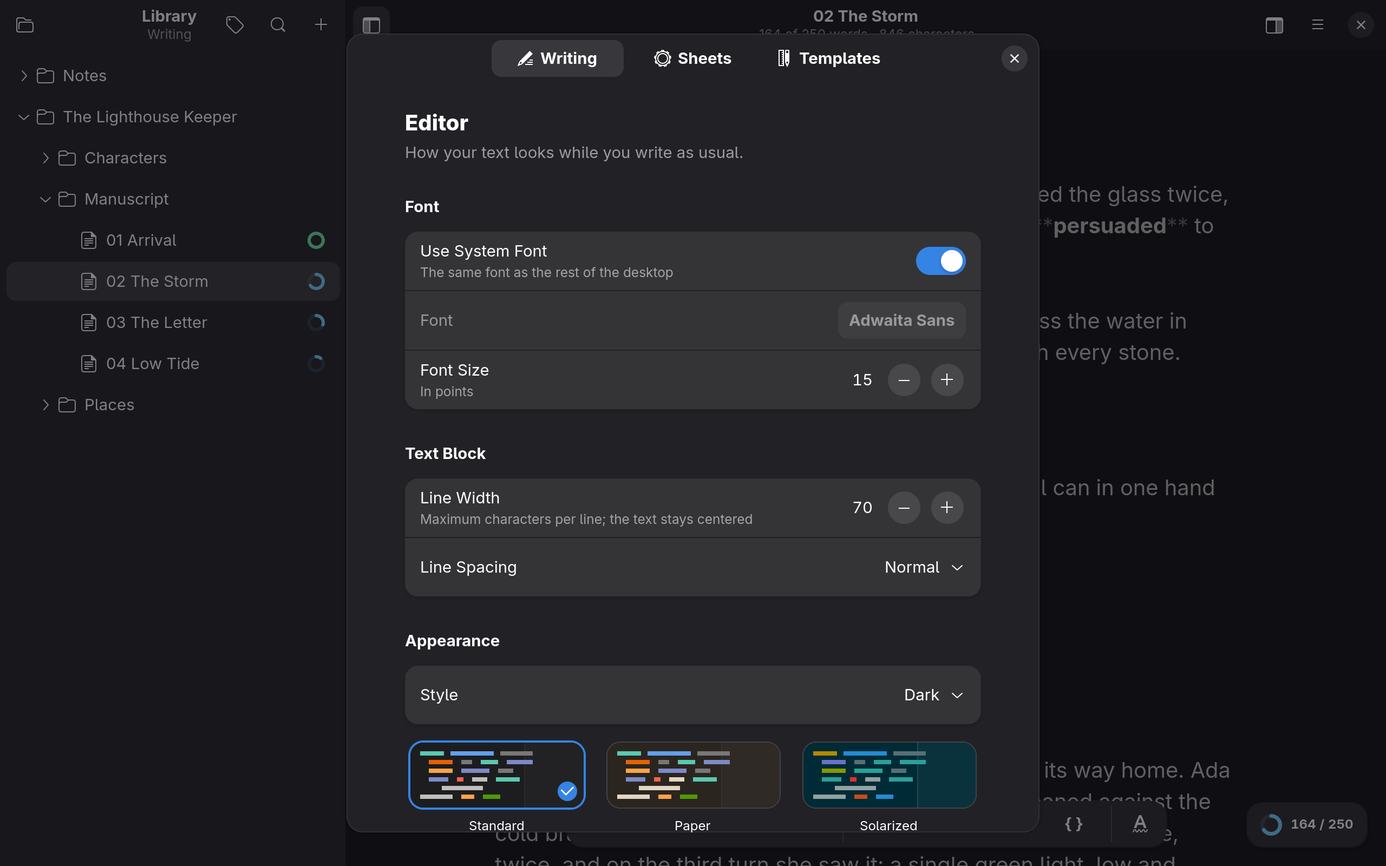
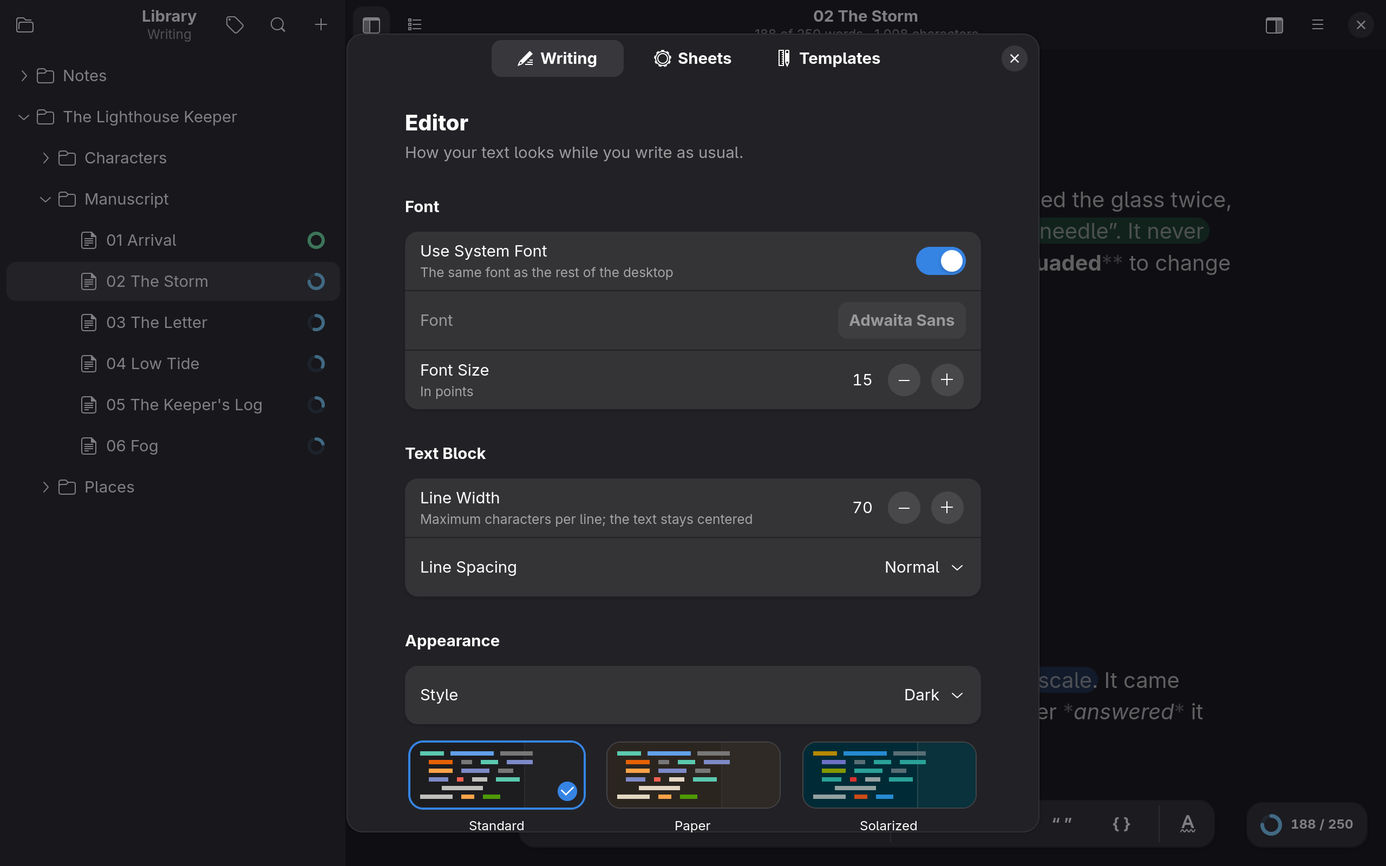
Typecase 1.2.0: new screenshots, texts and download links

diff --git a/src/typecase.html b/src/typecase.html
@@ -12,20 +12,27 @@ description: Typecase is a calm, native Markdown writing app for Linux. Plain fi
   <a class="button" href="#install">Get Typecase</a>
   <a class="button secondary" href="https://github.com/kleinod-studio/Typecase">Source code</a>
 </div>
-<p class="muted">Version 1.1.2 · <a href="https://github.com/kleinod-studio/Typecase/releases/tag/v1.1.2">Release notes</a></p>
+<p class="muted">Version 1.2.0 · <a href="https://github.com/kleinod-studio/Typecase/releases/tag/v1.2.0">Release notes</a></p>
 
-<img class="shot shot-light" src="/assets/typecase/screenshot-light.png" alt="Typecase with the library on the left, a sheet in the editor and the formatting bar" width="1600" height="1000">
-<img class="shot shot-dark" src="/assets/typecase/screenshot-dark.png" alt="Typecase in dark style" width="1600" height="1000">
+<img class="shot shot-light" src="/assets/typecase/screenshot-light.png" alt="Typecase with the library on the left and a sheet in the editor: a picture of a lighthouse in the text, with a yellow pill for the image, a green pill for a footnote and a blue pill for a link" width="1600" height="1000">
+<img class="shot shot-dark" src="/assets/typecase/screenshot-dark.png" alt="The same sheet with its image and pills in dark style" width="1600" height="1000">
 
 <h2>Writing, without distractions</h2>
 <div class="cards">
   <div class="card"><h3>A library of plain files</h3><p>Any folder becomes your library; subfolders are groups. No database, no proprietary format. Sync it with Nextcloud or Syncthing if you like.</p></div>
   <div class="card"><h3>Markdown, styled as you type</h3><p>Headings, emphasis, lists and code look the way they will. A floating formatting bar helps if you'd rather not learn the syntax.</p></div>
+  <div class="card"><h3>Find your way</h3><p>The outline lists the headings of a sheet, or of a whole group with its subgroups. Choose one to jump there.</p></div>
   <div class="card"><h3>Focus mode</h3><p>Full screen with only your text. Typewriter scrolling keeps the current line centered, and the rest of the text fades back.</p></div>
   <div class="card"><h3>Goals and keywords</h3><p>Set a word goal per sheet and watch the progress rings fill. Tag sheets with keywords and filter your library by them.</p></div>
   <div class="card"><h3>Your text is safe</h3><p>Every change is saved automatically and atomically. If another program changes a file, Typecase never overwrites what you typed.</p></div>
   <div class="card"><h3>Private</h3><p>No account, no telemetry, no network access. The Flatpak doesn't even have network permission.</p></div>
 </div>
+
+<h2>Images, links and footnotes</h2>
+<p>Drop an image into your text, paste a screenshot, or use the button in the formatting bar. The image appears right in the editor, and the file stays with its sheet as an attachment. A double-click sets its size, alignment, caption and alternative text, and every export follows.</p>
+<p>Markdown for images, links and footnotes can get long, so Typecase folds it into a small pill: yellow for images, blue for links, green for footnotes. Move the caret there, and the Markdown is back. Links open with Ctrl+click, and footnotes are written right where they belong. It all stays plain text.</p>
+<img class="shot shot-light" src="/assets/typecase/screenshot-image-light.png" alt="A dialog over the text with the settings of an image: size, alignment, caption and alternative text" width="1600" height="1000" loading="lazy">
+<img class="shot shot-dark" src="/assets/typecase/screenshot-image-dark.png" alt="The image dialog in dark style" width="1600" height="1000" loading="lazy">
 
 <h2>Plot with cards</h2>
 <p>Switch a group from <em>Text</em> to <em>Cards</em>, and every sheet becomes a card with its status, keywords, word count and notes. Jot down ideas right on the cards, and drag them, or press Alt and an arrow key, to try out a new order for your chapters. The sheets follow, and the notes stay in each file's front matter.</p>
@@ -33,11 +40,18 @@ description: Typecase is a calm, native Markdown writing app for Linux. Plain fi
 <img class="shot shot-dark" src="/assets/typecase/screenshot-cards-dark.png" alt="The card view in dark style" width="1600" height="1000" loading="lazy">
 
 <h2>Export with templates</h2>
-<p>Typecase exports to PDF, Word (DOCX) and HTML through Pandoc. How the result looks is decided by a template: a single <code>.typecase-template</code> file you import under <em>Preferences → Templates</em>. One template covers all three formats.</p>
+<p>Typecase exports to PDF, Word (DOCX) and HTML through Pandoc, a single sheet or a whole group. Add a table of contents and a cover page if you like. Footnotes land at the bottom of their page, pages get numbers, and the subgroups of a group become parts, with their own heading or title page.</p>
+<p>How the result looks is decided by a template, and one template covers all three formats.</p>
+<img class="shot shot-light" src="/assets/typecase/screenshot-assistant-light.png" alt="The template assistant with a name, a starting point, and settings for paper, margins, page numbers and fonts" width="1600" height="1000" loading="lazy">
+<img class="shot shot-dark" src="/assets/typecase/screenshot-assistant-dark.png" alt="The template assistant in dark style" width="1600" height="1000" loading="lazy">
 <div class="cards">
   <div class="card">
+    <h3>Use the assistant</h3>
+    <p>Under <em>Preferences → Templates → New…</em>, choose a starting point such as a manuscript, a thesis or a novel, then adjust paper, margins, fonts and spacing. No files, no code, and you can change it later.</p>
+  </div>
+  <div class="card">
     <h3>Build your own templates</h3>
-    <p>The guide explains the format: description, HTML template, CSS and Word styles.</p>
+    <p>For special layouts, a template is a single <code>.typecase-template</code> file you import in the preferences. The guide explains the format: description, HTML template, CSS and Word styles.</p>
     <p><a href="/typecase/templates/">Read the template guide</a></p>
   </div>
   <div class="card">
@@ -71,24 +85,24 @@ flatpak remote-add --user --if-not-exists flathub https://dl.flathub.org/repo/fl
 <p>The first command installs Flatpak, the second adds Flathub, where the GNOME runtime that Typecase needs comes from. Log out and back in afterwards, so that Flatpak apps appear in your app launcher. For other distributions, see <a href="https://flatpak.org/setup/">flatpak.org/setup</a>.</p>
 <h3>Install Typecase</h3>
 <div class="buttons">
-  <a class="button" href="https://github.com/kleinod-studio/Typecase/releases/download/v1.1.2/Typecase-1.1.2-x86_64.flatpak">Download for x86_64</a>
-  <a class="button secondary" href="https://github.com/kleinod-studio/Typecase/releases/download/v1.1.2/Typecase-1.1.2-aarch64.flatpak">Download for ARM (aarch64)</a>
+  <a class="button" href="https://github.com/kleinod-studio/Typecase/releases/download/v1.2.0/Typecase-1.2.0-x86_64.flatpak">Download for x86_64</a>
+  <a class="button secondary" href="https://github.com/kleinod-studio/Typecase/releases/download/v1.2.0/Typecase-1.2.0-aarch64.flatpak">Download for ARM (aarch64)</a>
 </div>
 <p>Not sure which one you need? Open a terminal and type <code>uname -m</code>. It shows <code>x86_64</code> on most PCs and laptops with an Intel or AMD processor, and <code>aarch64</code> on ARM computers, for example a Raspberry Pi, a laptop with a Snapdragon processor, or Linux in a virtual machine on a Mac with Apple Silicon.</p>
 <p>Then open a terminal in your downloads folder (usually <code>cd ~/Downloads</code>) and install the file you downloaded. For x86_64:</p>
-<pre><code>flatpak install --user Typecase-1.1.2-x86_64.flatpak</code></pre>
+<pre><code>flatpak install --user Typecase-1.2.0-x86_64.flatpak</code></pre>
 <p>For ARM (aarch64):</p>
-<pre><code>flatpak install --user Typecase-1.1.2-aarch64.flatpak</code></pre>
+<pre><code>flatpak install --user Typecase-1.2.0-aarch64.flatpak</code></pre>
 <p>The GNOME runtime is fetched from Flathub automatically, and Typecase appears in your app launcher. Bundles don't update by themselves; install the next release the same way. Your library and settings stay.</p>
 <h3>Spell checking dictionaries</h3>
 <p>The dictionaries come from the GNOME runtime's language packs, which Flatpak installs only for the languages it is set up for. If Typecase says that a dictionary is missing, add the language (here German and English) and update:</p>
 <pre><code>flatpak config --user --set languages "de;en"
 flatpak update --user</code></pre>
 <h3>Build from source</h3>
-<pre><code>git clone --branch v1.1.2 https://github.com/kleinod-studio/Typecase.git
+<pre><code>git clone --branch v1.2.0 https://github.com/kleinod-studio/Typecase.git
 cd Typecase
 flatpak-builder --user --install --force-clean build-dir studio.kleinod.Typecase.yml</code></pre>
 <p>You need <code>flatpak-builder</code> and the GNOME runtime (<code>flatpak install flathub org.gnome.Platform//51 org.gnome.Sdk//51</code>).</p>
 
 <h2>Get involved</h2>
-<p>Typecase is free software under the GPL-3.0-or-later. Found a bug or have an idea? <a href="https://github.com/kleinod-studio/Typecase/issues">Open an issue</a>. See the <a href="https://github.com/kleinod-studio/Typecase/blob/main/ROADMAP.md">roadmap</a> for what's done and what comes next.</p>
+<p>Typecase is free software under the GPL-3.0-or-later. Found a bug or have an idea? <a href="https://github.com/kleinod-studio/Typecase/issues">Open an issue</a>. Would you like to see Typecase in your language? <a href="https://github.com/kleinod-studio/Typecase/blob/main/CONTRIBUTING.md">Help translate it</a>, no programming needed. See the <a href="https://github.com/kleinod-studio/Typecase/blob/main/ROADMAP.md">roadmap</a> for what's done and what comes next.</p>

diff --git a/typecase/index.html b/typecase/index.html
@@ -37,20 +37,27 @@
   <a class="button" href="#install">Get Typecase</a>
   <a class="button secondary" href="https://github.com/kleinod-studio/Typecase">Source code</a>
 </div>
-<p class="muted">Version 1.1.2 · <a href="https://github.com/kleinod-studio/Typecase/releases/tag/v1.1.2">Release notes</a></p>
+<p class="muted">Version 1.2.0 · <a href="https://github.com/kleinod-studio/Typecase/releases/tag/v1.2.0">Release notes</a></p>
 
-<img class="shot shot-light" src="/assets/typecase/screenshot-light.png" alt="Typecase with the library on the left, a sheet in the editor and the formatting bar" width="1600" height="1000">
-<img class="shot shot-dark" src="/assets/typecase/screenshot-dark.png" alt="Typecase in dark style" width="1600" height="1000">
+<img class="shot shot-light" src="/assets/typecase/screenshot-light.png" alt="Typecase with the library on the left and a sheet in the editor: a picture of a lighthouse in the text, with a yellow pill for the image, a green pill for a footnote and a blue pill for a link" width="1600" height="1000">
+<img class="shot shot-dark" src="/assets/typecase/screenshot-dark.png" alt="The same sheet with its image and pills in dark style" width="1600" height="1000">
 
 <h2>Writing, without distractions</h2>
 <div class="cards">
   <div class="card"><h3>A library of plain files</h3><p>Any folder becomes your library; subfolders are groups. No database, no proprietary format. Sync it with Nextcloud or Syncthing if you like.</p></div>
   <div class="card"><h3>Markdown, styled as you type</h3><p>Headings, emphasis, lists and code look the way they will. A floating formatting bar helps if you'd rather not learn the syntax.</p></div>
+  <div class="card"><h3>Find your way</h3><p>The outline lists the headings of a sheet, or of a whole group with its subgroups. Choose one to jump there.</p></div>
   <div class="card"><h3>Focus mode</h3><p>Full screen with only your text. Typewriter scrolling keeps the current line centered, and the rest of the text fades back.</p></div>
   <div class="card"><h3>Goals and keywords</h3><p>Set a word goal per sheet and watch the progress rings fill. Tag sheets with keywords and filter your library by them.</p></div>
   <div class="card"><h3>Your text is safe</h3><p>Every change is saved automatically and atomically. If another program changes a file, Typecase never overwrites what you typed.</p></div>
   <div class="card"><h3>Private</h3><p>No account, no telemetry, no network access. The Flatpak doesn't even have network permission.</p></div>
 </div>
+
+<h2>Images, links and footnotes</h2>
+<p>Drop an image into your text, paste a screenshot, or use the button in the formatting bar. The image appears right in the editor, and the file stays with its sheet as an attachment. A double-click sets its size, alignment, caption and alternative text, and every export follows.</p>
+<p>Markdown for images, links and footnotes can get long, so Typecase folds it into a small pill: yellow for images, blue for links, green for footnotes. Move the caret there, and the Markdown is back. Links open with Ctrl+click, and footnotes are written right where they belong. It all stays plain text.</p>
+<img class="shot shot-light" src="/assets/typecase/screenshot-image-light.png" alt="A dialog over the text with the settings of an image: size, alignment, caption and alternative text" width="1600" height="1000" loading="lazy">
+<img class="shot shot-dark" src="/assets/typecase/screenshot-image-dark.png" alt="The image dialog in dark style" width="1600" height="1000" loading="lazy">
 
 <h2>Plot with cards</h2>
 <p>Switch a group from <em>Text</em> to <em>Cards</em>, and every sheet becomes a card with its status, keywords, word count and notes. Jot down ideas right on the cards, and drag them, or press Alt and an arrow key, to try out a new order for your chapters. The sheets follow, and the notes stay in each file's front matter.</p>
@@ -58,11 +65,18 @@
 <img class="shot shot-dark" src="/assets/typecase/screenshot-cards-dark.png" alt="The card view in dark style" width="1600" height="1000" loading="lazy">
 
 <h2>Export with templates</h2>
-<p>Typecase exports to PDF, Word (DOCX) and HTML through Pandoc. How the result looks is decided by a template: a single <code>.typecase-template</code> file you import under <em>Preferences → Templates</em>. One template covers all three formats.</p>
+<p>Typecase exports to PDF, Word (DOCX) and HTML through Pandoc, a single sheet or a whole group. Add a table of contents and a cover page if you like. Footnotes land at the bottom of their page, pages get numbers, and the subgroups of a group become parts, with their own heading or title page.</p>
+<p>How the result looks is decided by a template, and one template covers all three formats.</p>
+<img class="shot shot-light" src="/assets/typecase/screenshot-assistant-light.png" alt="The template assistant with a name, a starting point, and settings for paper, margins, page numbers and fonts" width="1600" height="1000" loading="lazy">
+<img class="shot shot-dark" src="/assets/typecase/screenshot-assistant-dark.png" alt="The template assistant in dark style" width="1600" height="1000" loading="lazy">
 <div class="cards">
   <div class="card">
+    <h3>Use the assistant</h3>
+    <p>Under <em>Preferences → Templates → New…</em>, choose a starting point such as a manuscript, a thesis or a novel, then adjust paper, margins, fonts and spacing. No files, no code, and you can change it later.</p>
+  </div>
+  <div class="card">
     <h3>Build your own templates</h3>
-    <p>The guide explains the format: description, HTML template, CSS and Word styles.</p>
+    <p>For special layouts, a template is a single <code>.typecase-template</code> file you import in the preferences. The guide explains the format: description, HTML template, CSS and Word styles.</p>
     <p><a href="/typecase/templates/">Read the template guide</a></p>
   </div>
   <div class="card">
@@ -96,27 +110,27 @@ flatpak remote-add --user --if-not-exists flathub https://dl.flathub.org/repo/fl
 <p>The first command installs Flatpak, the second adds Flathub, where the GNOME runtime that Typecase needs comes from. Log out and back in afterwards, so that Flatpak apps appear in your app launcher. For other distributions, see <a href="https://flatpak.org/setup/">flatpak.org/setup</a>.</p>
 <h3>Install Typecase</h3>
 <div class="buttons">
-  <a class="button" href="https://github.com/kleinod-studio/Typecase/releases/download/v1.1.2/Typecase-1.1.2-x86_64.flatpak">Download for x86_64</a>
-  <a class="button secondary" href="https://github.com/kleinod-studio/Typecase/releases/download/v1.1.2/Typecase-1.1.2-aarch64.flatpak">Download for ARM (aarch64)</a>
+  <a class="button" href="https://github.com/kleinod-studio/Typecase/releases/download/v1.2.0/Typecase-1.2.0-x86_64.flatpak">Download for x86_64</a>
+  <a class="button secondary" href="https://github.com/kleinod-studio/Typecase/releases/download/v1.2.0/Typecase-1.2.0-aarch64.flatpak">Download for ARM (aarch64)</a>
 </div>
 <p>Not sure which one you need? Open a terminal and type <code>uname -m</code>. It shows <code>x86_64</code> on most PCs and laptops with an Intel or AMD processor, and <code>aarch64</code> on ARM computers, for example a Raspberry Pi, a laptop with a Snapdragon processor, or Linux in a virtual machine on a Mac with Apple Silicon.</p>
 <p>Then open a terminal in your downloads folder (usually <code>cd ~/Downloads</code>) and install the file you downloaded. For x86_64:</p>
-<pre><code>flatpak install --user Typecase-1.1.2-x86_64.flatpak</code></pre>
+<pre><code>flatpak install --user Typecase-1.2.0-x86_64.flatpak</code></pre>
 <p>For ARM (aarch64):</p>
-<pre><code>flatpak install --user Typecase-1.1.2-aarch64.flatpak</code></pre>
+<pre><code>flatpak install --user Typecase-1.2.0-aarch64.flatpak</code></pre>
 <p>The GNOME runtime is fetched from Flathub automatically, and Typecase appears in your app launcher. Bundles don't update by themselves; install the next release the same way. Your library and settings stay.</p>
 <h3>Spell checking dictionaries</h3>
 <p>The dictionaries come from the GNOME runtime's language packs, which Flatpak installs only for the languages it is set up for. If Typecase says that a dictionary is missing, add the language (here German and English) and update:</p>
 <pre><code>flatpak config --user --set languages "de;en"
 flatpak update --user</code></pre>
 <h3>Build from source</h3>
-<pre><code>git clone --branch v1.1.2 https://github.com/kleinod-studio/Typecase.git
+<pre><code>git clone --branch v1.2.0 https://github.com/kleinod-studio/Typecase.git
 cd Typecase
 flatpak-builder --user --install --force-clean build-dir studio.kleinod.Typecase.yml</code></pre>
 <p>You need <code>flatpak-builder</code> and the GNOME runtime (<code>flatpak install flathub org.gnome.Platform//51 org.gnome.Sdk//51</code>).</p>
 
 <h2>Get involved</h2>
-<p>Typecase is free software under the GPL-3.0-or-later. Found a bug or have an idea? <a href="https://github.com/kleinod-studio/Typecase/issues">Open an issue</a>. See the <a href="https://github.com/kleinod-studio/Typecase/blob/main/ROADMAP.md">roadmap</a> for what's done and what comes next.</p>
+<p>Typecase is free software under the GPL-3.0-or-later. Found a bug or have an idea? <a href="https://github.com/kleinod-studio/Typecase/issues">Open an issue</a>. Would you like to see Typecase in your language? <a href="https://github.com/kleinod-studio/Typecase/blob/main/CONTRIBUTING.md">Help translate it</a>, no programming needed. See the <a href="https://github.com/kleinod-studio/Typecase/blob/main/ROADMAP.md">roadmap</a> for what's done and what comes next.</p>
 </main>
 <footer class="site-footer">
   <div class="wrap">

diff --git a/src/typecase-templates.html b/src/typecase-templates.html
@@ -13,10 +13,14 @@ it in Typecase under <strong>Preferences → Templates → Import…</strong>.
 When exporting (Ctrl+E), you then pick it under “Template” in the export
 dialog, next to “Format”.</p>
 <p>This guide describes how a template is structured and how to build
-your own. The easiest way is the <strong>Claude skill
-“typecase-template”</strong>: you describe to Claude what your document
-should look like and get a finished template file. The skill can be
-downloaded from <a
+your own. The easiest way is the <strong>template assistant</strong>:
+under <strong>Preferences → Templates → New…</strong>, choose a starting
+point, adjust paper, fonts and spacing, and the template is ready, for
+PDF, Word and HTML. You can change it later with the edit button. For
+special wishes, such as a letterhead or a publisher's guidelines, there
+is the <strong>Claude skill “typecase-template”</strong>: you describe
+to Claude what your document should look like and get a finished
+template file. The skill can be downloaded from <a
 href="https://kleinod.studio/typecase">https://kleinod.studio/typecase</a>.
 If you prefer to do it by hand, you will find everything you need
 here.</p>
@@ -209,10 +213,21 @@ page, <code>.title-block { break-after: page; }</code> for a separate
 title page, <code>break-after: avoid</code> for headings,
 <code>orphans</code>/<code>widows</code> to prevent single stranded
 lines.</li>
-<li><strong>Page numbers and headers</strong> are currently not
-available in PDF (Typecase prints with WebKit, which does not fill these
-page margin areas). In Word documents, you can add them via
-<code>reference.docx</code>.</li>
+<li><strong>Page numbers and headers</strong> in PDF:
+<code>@page { @bottom-center { content: counter(page); } }</code> (also
+<code>@top-center</code>, <code>@bottom-right</code> and so on). In Word
+documents, you can add them via <code>reference.docx</code>.</li>
+<li><strong>Cover, table of contents and parts</strong> are export
+options that work with every template. To restyle them:
+<code>.cover</code> (with <code>.title</code>, <code>.subtitle</code>,
+<code>.author</code>, <code>.date</code>), <code>.toc</code> (with
+<code>.toc-title</code>), and <code>.part</code> for the name of a
+subgroup, plus <code>.new-page</code> or <code>.title-page</code>
+depending on the export setting. In a group with parts, chapters are
+<code>h2</code>.</li>
+<li><strong>Footnotes</strong> are at the bottom of their page in PDF.
+<code>.footnote</code>, <code>::footnote-call</code> and
+<code>::footnote-marker</code> restyle them.</li>
 <li><strong>Fonts</strong>: rely only on widely available fonts (e.g.
 “Liberation Serif”, “DejaVu Serif”, “Noto Sans”) or embed your own: put
 the font file in the archive and include it with
@@ -221,6 +236,16 @@ Typecase embeds files referenced by <code>url(…)</code> in HTML and PDF.
 Mind the font’s license.</li>
 <li><strong>Images</strong> (such as a logo) work the same way:
 <code>background-image: url("logo.svg")</code>.</li>
+<li><strong>Images in the text</strong> lie in
+<code>&lt;figure&gt;</code> with a <code>&lt;figcaption&gt;</code>, or
+in a paragraph if they have no caption. An alignment chosen in the image
+dialog adds the class <code>image-left</code>, <code>image-center</code>
+or <code>image-right</code> around them. Without one, your CSS decides:
+<code>figure { text-align: center; }</code> centers all images. In
+<code>reference.docx</code> the styles "Captioned Figure" and "Image
+Caption" apply; aligned images use "Typecase Image center" and "Typecase
+Caption center" (likewise <code>left</code> and <code>right</code>),
+which Typecase adds on its own unless your template defines them.</li>
 <li>References to files outside the template and internet addresses are
 left unchanged; Typecase does not download anything from the
 network.</li>

diff --git a/typecase/templates/index.html b/typecase/templates/index.html
@@ -38,10 +38,14 @@ it in Typecase under <strong>Preferences → Templates → Import…</strong>.
 When exporting (Ctrl+E), you then pick it under “Template” in the export
 dialog, next to “Format”.</p>
 <p>This guide describes how a template is structured and how to build
-your own. The easiest way is the <strong>Claude skill
-“typecase-template”</strong>: you describe to Claude what your document
-should look like and get a finished template file. The skill can be
-downloaded from <a
+your own. The easiest way is the <strong>template assistant</strong>:
+under <strong>Preferences → Templates → New…</strong>, choose a starting
+point, adjust paper, fonts and spacing, and the template is ready, for
+PDF, Word and HTML. You can change it later with the edit button. For
+special wishes, such as a letterhead or a publisher's guidelines, there
+is the <strong>Claude skill “typecase-template”</strong>: you describe
+to Claude what your document should look like and get a finished
+template file. The skill can be downloaded from <a
 href="https://kleinod.studio/typecase">https://kleinod.studio/typecase</a>.
 If you prefer to do it by hand, you will find everything you need
 here.</p>
@@ -234,10 +238,21 @@ page, <code>.title-block { break-after: page; }</code> for a separate
 title page, <code>break-after: avoid</code> for headings,
 <code>orphans</code>/<code>widows</code> to prevent single stranded
 lines.</li>
-<li><strong>Page numbers and headers</strong> are currently not
-available in PDF (Typecase prints with WebKit, which does not fill these
-page margin areas). In Word documents, you can add them via
-<code>reference.docx</code>.</li>
+<li><strong>Page numbers and headers</strong> in PDF:
+<code>@page { @bottom-center { content: counter(page); } }</code> (also
+<code>@top-center</code>, <code>@bottom-right</code> and so on). In Word
+documents, you can add them via <code>reference.docx</code>.</li>
+<li><strong>Cover, table of contents and parts</strong> are export
+options that work with every template. To restyle them:
+<code>.cover</code> (with <code>.title</code>, <code>.subtitle</code>,
+<code>.author</code>, <code>.date</code>), <code>.toc</code> (with
+<code>.toc-title</code>), and <code>.part</code> for the name of a
+subgroup, plus <code>.new-page</code> or <code>.title-page</code>
+depending on the export setting. In a group with parts, chapters are
+<code>h2</code>.</li>
+<li><strong>Footnotes</strong> are at the bottom of their page in PDF.
+<code>.footnote</code>, <code>::footnote-call</code> and
+<code>::footnote-marker</code> restyle them.</li>
 <li><strong>Fonts</strong>: rely only on widely available fonts (e.g.
 “Liberation Serif”, “DejaVu Serif”, “Noto Sans”) or embed your own: put
 the font file in the archive and include it with
@@ -246,6 +261,16 @@ Typecase embeds files referenced by <code>url(…)</code> in HTML and PDF.
 Mind the font’s license.</li>
 <li><strong>Images</strong> (such as a logo) work the same way:
 <code>background-image: url("logo.svg")</code>.</li>
+<li><strong>Images in the text</strong> lie in
+<code>&lt;figure&gt;</code> with a <code>&lt;figcaption&gt;</code>, or
+in a paragraph if they have no caption. An alignment chosen in the image
+dialog adds the class <code>image-left</code>, <code>image-center</code>
+or <code>image-right</code> around them. Without one, your CSS decides:
+<code>figure { text-align: center; }</code> centers all images. In
+<code>reference.docx</code> the styles "Captioned Figure" and "Image
+Caption" apply; aligned images use "Typecase Image center" and "Typecase
+Caption center" (likewise <code>left</code> and <code>right</code>),
+which Typecase adds on its own unless your template defines them.</li>
 <li>References to files outside the template and internet addresses are
 left unchanged; Typecase does not download anything from the
 network.</li>

diff --git a/brand/social/typecase-1.2.0/mastodon-post.md b/brand/social/typecase-1.2.0/mastodon-post.md
@@ -1,0 +1,41 @@
+# Mastodon-Post zu Typecase 1.2.0
+
+Bild: `screenshot-light.png` (oder `screenshot-dark.png`) in diesem Ordner
+
+## Englisch (empfohlen, wie die Webseite)
+
+Typecase 1.2 is out, and my calm Markdown writing app for Linux just got a lot more colorful. ✍
+
+New: images right in the text. And long Markdown for images, links and footnotes folds into small colored pills, so your text stays easy to read.
+
+Also new: an outline, a template assistant, and exports with table of contents, cover page and parts.
+
+Still plain .md files, no account, no network.
+
+https://kleinod.studio/typecase
+
+#Typecase #Linux #GNOME #Flatpak #WritingCommunity #OpenSource
+
+## Deutsch
+
+Typecase 1.2 ist da, und meine ruhige Markdown-Schreib-App für Linux ist deutlich bunter geworden. ✍
+
+Neu: Bilder direkt im Text. Und langes Markdown für Bilder, Links und Fußnoten klappt zu kleinen farbigen Pillen zusammen, damit der Text gut lesbar bleibt.
+
+Außerdem neu: eine Gliederung, ein Vorlagen-Assistent und Exporte mit Inhaltsverzeichnis, Titelseite und Teilen.
+
+Weiterhin nur .md-Dateien, kein Konto, kein Netz.
+
+https://kleinod.studio/typecase
+
+#Typecase #Linux #GNOME #Flatpak #Schreiben #OpenSource
+
+## Bildbeschreibung (Alt-Text)
+
+### Englisch
+
+Screenshot of Typecase, a writing app, in light style. On the left, the library of a novel called “The Lighthouse Keeper”, with six chapters and small progress rings. On the right, the chapter “The Storm” in the editor. In the first paragraph, a footnote appears as a green pill with its text. Below it, a yellow pill with the caption “The tower on the evening of the storm” sits above a picture of a lighthouse at dusk, with a small sailing boat on the sea. In the next paragraph, a blue pill marks a link to “Beaufort scale”. At the bottom, a floating formatting bar and a small badge showing 188 of 250 words.
+
+### Deutsch
+
+Screenshot der Schreib-App Typecase in heller Darstellung. Links die Bibliothek eines Romans namens „The Lighthouse Keeper“ mit sechs Kapiteln und kleinen Fortschrittsringen. Rechts das Kapitel „The Storm“ im Editor. Im ersten Absatz steht eine Fußnote als grüne Pille mit ihrem Text. Darunter eine gelbe Pille mit der Bildunterschrift „The tower on the evening of the storm“ über dem Bild eines Leuchtturms in der Abenddämmerung, mit einem kleinen Segelboot auf dem Meer. Im nächsten Absatz markiert eine blaue Pille einen Link zu „Beaufort scale“. Unten eine schwebende Formatierungsleiste und ein kleines Abzeichen mit 188 von 250 Wörtern.
